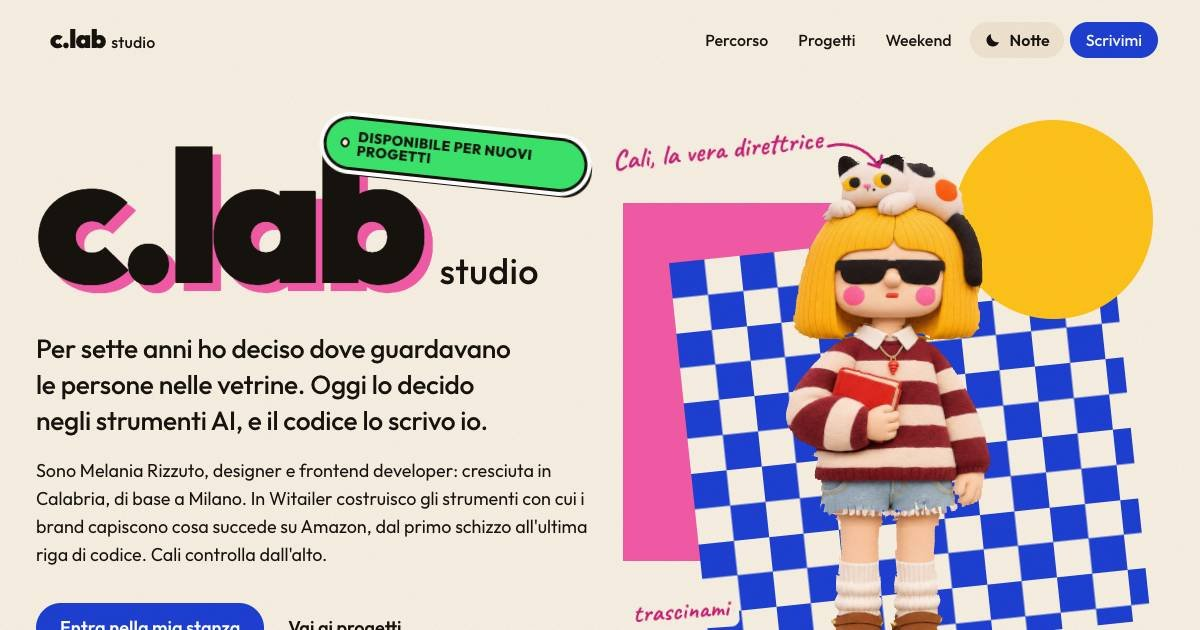
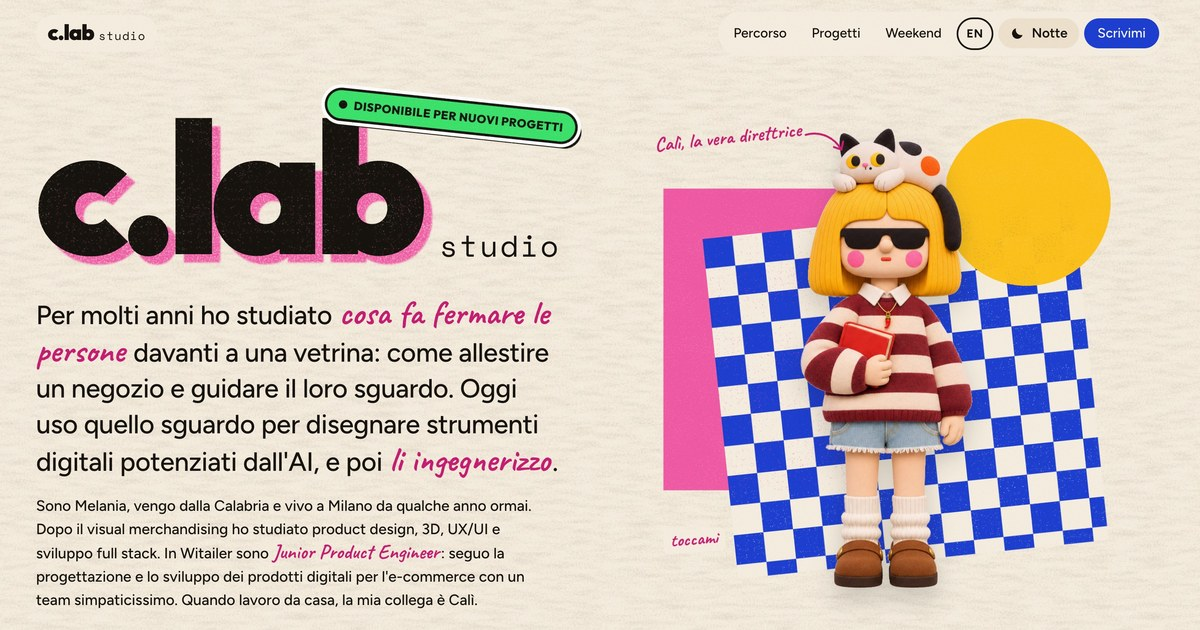
Fresh link previews: today's hero, in Italian and in English

diff --git a/src/lib/metadata.ts b/src/lib/metadata.ts
@@ -16,7 +16,11 @@ export function buildMetadata(locale: Locale): Metadata {
     description: meta.description,
     /* the c. of the wordmark in cream over its pink offset, on ink (public/favicon.ico, icon.png, apple-touch-icon.png) */
     icons: { icon: [{ url: '/favicon.ico', sizes: 'any' }, { url: '/icon.png', type: 'image/png', sizes: '512x512' }], apple: '/apple-touch-icon.png' },
-    openGraph: { title: meta.title, description: meta.ogDescription, images: ['/assets/og.jpg'] },
+    openGraph: {
+      title: meta.title,
+      description: meta.ogDescription,
+      images: [{ url: locale === 'en' ? '/assets/og-en.jpg' : '/assets/og.jpg', width: 1200, height: 630 }],
+    },
     twitter: { card: 'summary_large_image' },
     other: { 'claude:viewport-fit-sides': 'cover' },
   };
